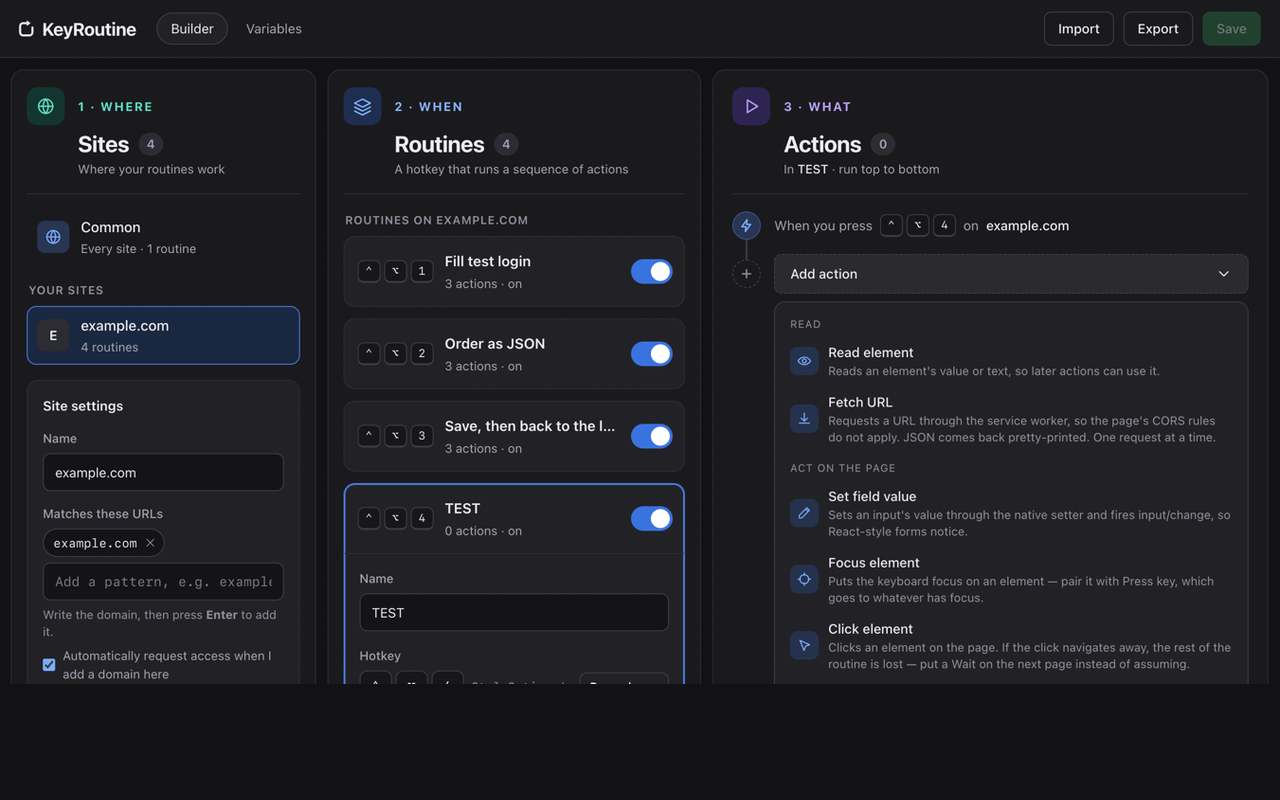
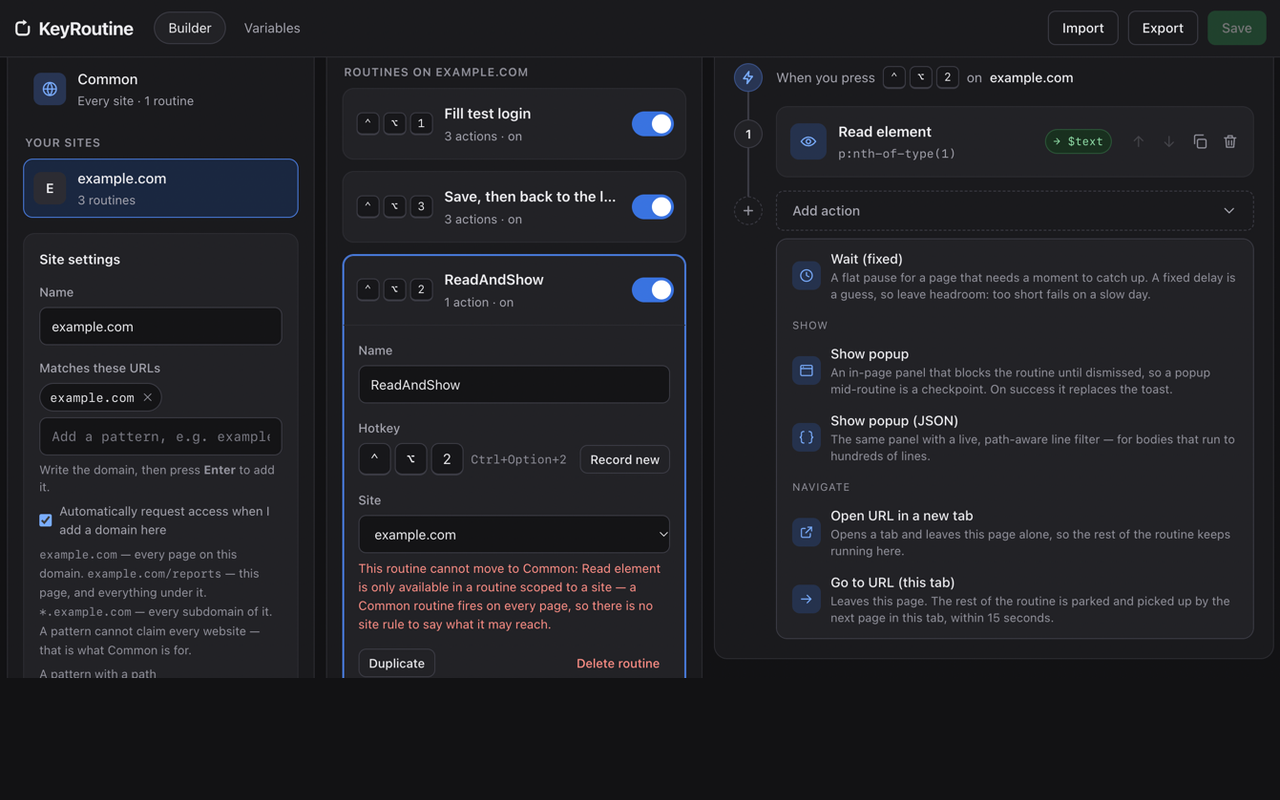
docs: three real screenshots — a named routine, read config, and a live popup
Re-shot action-menu-1280x800.png on a real "ReadAndShow" routine instead
of the empty "TEST" placeholder; it now also shows the "cannot move to
Common" rule in frame as a bonus. Added two new frames not originally
planned: read-element-detail-1280x800.png (a Read element step configured
end to end — selector, Pick/Test, live match count, Result/Save as) and
popup-live-1280x800.png (the hotkey cheatsheet popup actually firing on a
real example.com page, the one frame showing KeyRoutine doing its job
rather than being configured — closes that open roadmap item).

diff --git a/docs/store-listing.md b/docs/store-listing.md
@@ -109,13 +109,14 @@ any of them. The Store wants 1280×800 or 640×400, 24-bit PNG with no alpha.
 |---|---|---|
 | `screenshots/listing-1-builder-1280x800.png` | Re-shot. The primary frame: all three columns, "Fill test login" now correctly site-scoped, "Order as JSON" and the open "Save, then back to the list" with its click → wait → navigate pipeline on the right. Saved draft, nothing in an error state | ready |
 | `screenshots/listing-2-site-only-fetch-1280x800.png` | **Stale — taken before the rename, says Keystack/Stacks.** The same builder with a fetch routine open, showing the rule in the Site field: a routine holding Fetch URL cannot move to Common | re-shoot |
-| `screenshots/action-menu-1280x800.png` | Full-window action menu, re-shot at the right size. Shows Read and "Act on the page" only — Wait, Show and Navigate are below the fold in this capture, so it is not the complete vocabulary in one frame. Also opened on a routine named "TEST" with 0 actions, which reads as debug leftover rather than a feature demo | usable, not ideal — consider re-shooting on a named routine with the list scrolled to show more groups |
+| `screenshots/action-menu-1280x800.png` | Re-shot on a real named routine ("ReadAndShow") instead of the empty "TEST" one. Shows the Add action menu open — Wait, both Show variants, both Navigate actions — plus the "This routine cannot move to Common" rule visible in the Site panel underneath. The capture was already scrolled past the window's top bar in the source, so KeyRoutine's own header isn't in frame; Read and "Act on the page" are above the fold too | ready, header not visible |
+| `screenshots/read-element-detail-1280x800.png` | New. All three columns, "ReadAndShow"'s Read element step open: selector, Pick/Test buttons, "1 match on this page", and the Result/Save as panel. Shows a producer step configured end to end | ready |
+| `screenshots/popup-live-1280x800.png` | New. The hotkey cheatsheet popup actually firing on a real `example.com` page — the success toast top-left, the popup itself listing "This domain" and "Everywhere" sections. This is the one frame showing KeyRoutine doing its job rather than being configured | ready |
 | `screenshots/*-original.png` | The unpadded sources, kept to re-cut from, never for upload | source |
 
 Still worth shooting:
 
 - The Fetch URL card open on an **ungranted** host, so "Granting this lets it call the host, not run on its pages" is visible — the privacy story in one frame.
-- A popup fired by a hotkey on a real page, which is the only frame showing KeyRoutine doing its job rather than being configured.
 - Optionally the Sites list with a "Not granted" chip, showing nothing is reachable until it is granted.
 
 All frames are padded to 1280×800 at the bottom with the page background

diff --git a/docs/release-roadmap.md b/docs/release-roadmap.md
@@ -56,12 +56,15 @@ is missing is screenshots, Dashboard forms, and one real functionality gap
       Common — just re-shot under the new name and the fixed demo config.
       *Done when:* every uploaded file says KeyRoutine and is 1280×800,
       24-bit, no alpha.
-- [x] ~~Retake the action menu in a full window.~~ Done, but not ideal —
-      `action-menu-1280x800.png` is the right size now, but it only shows
-      Read and "Act on the page" (Wait/Show/Navigate are below the fold),
-      and it's opened on a routine named "TEST" with 0 actions. Usable as a
-      placeholder; worth a proper re-shoot on a named routine before upload.
-      Still missing: one frame of a popup firing on a real page.
+- [x] ~~Retake the action menu in a full window.~~ Re-shot on a real named
+      routine ("ReadAndShow") instead of "TEST" — shows Wait/Show/Navigate
+      and the Common-refusal rule. The window's own top bar isn't in frame
+      since the source capture was already scrolled; otherwise ready.
+- [x] ~~Shoot a popup firing on a real page.~~ `popup-live-1280x800.png` —
+      the cheatsheet popup actually open on `example.com`, toast visible.
+- [x] ~~Shoot a configured Read element step.~~ Bonus, not originally
+      planned: `read-element-detail-1280x800.png` — selector, Pick/Test,
+      "1 match on this page", and the Result/Save as panel in one frame.
 - [ ] **Fill the dashboard forms** from `docs/store-listing.md`: short
       description (91 chars, ready), detailed description, the three
       permission justifications, the single-purpose statement, and the data
